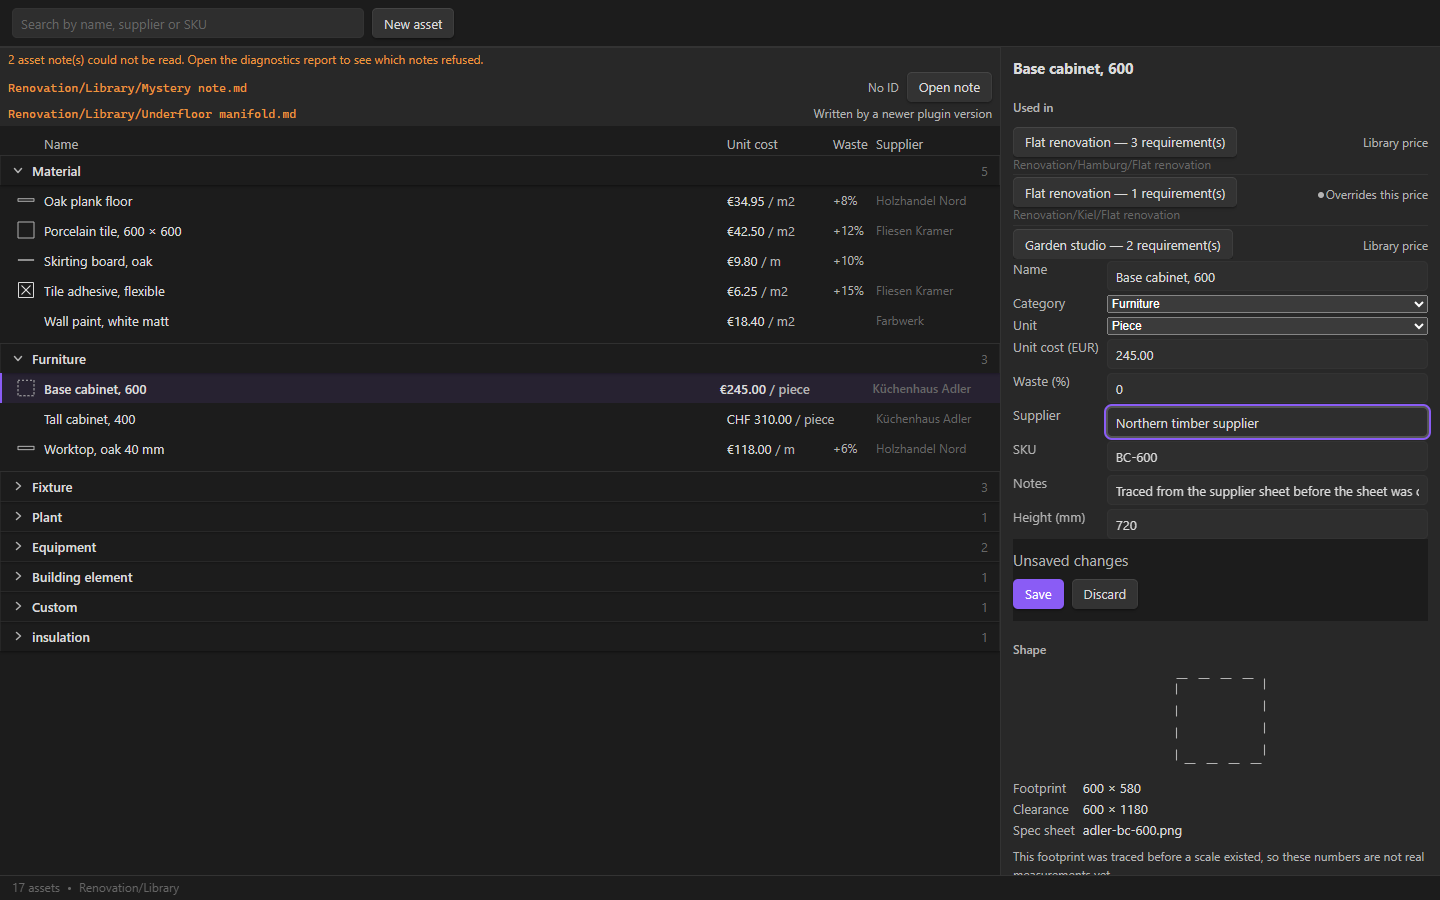
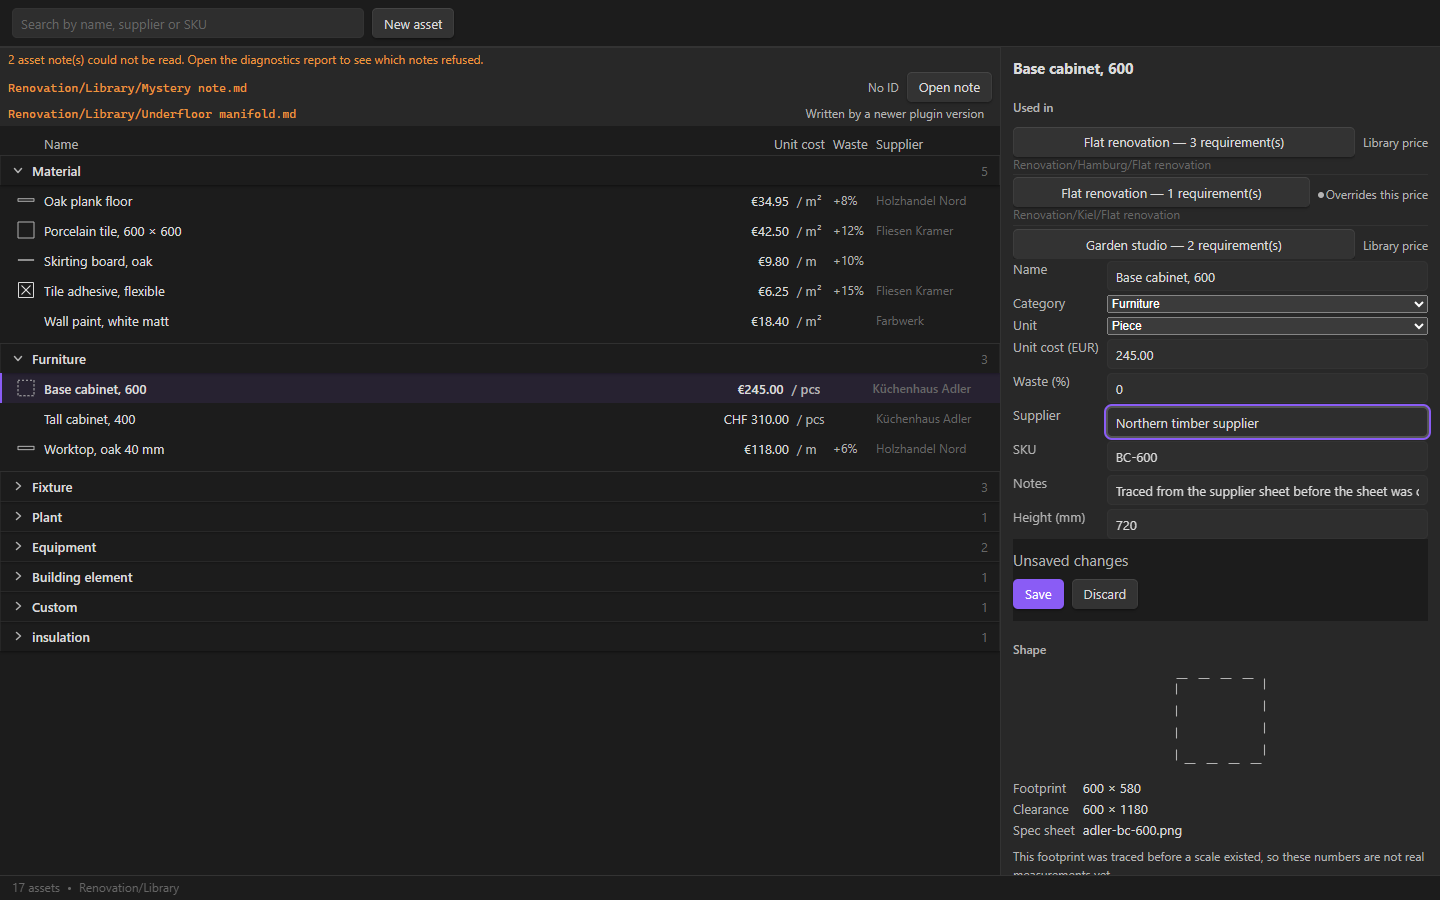
docs(library): regenerate the AL10 captures with layout measurements

diff --git a/docs/user-experience/asset-library-delivery/delivery-record.md b/docs/user-experience/asset-library-delivery/delivery-record.md
@@ -233,3 +233,34 @@ and confirmation of the original asset after clearing its draft name.
 
 Verification: build, lint, whole-project analysis and diff check pass; 18 library,
 store and localization test files / 264 tests pass.
+
+### Gap closure captures (2026-09-08)
+
+Regenerated with `scripts/asset-library-shots.mjs` at `4e6e941c85a57e14c0d1daec4caa77874deea27f`;
+browser `151.0.7922.34` (pinned Chromium — no substitute was needed).
+Price column: amount right-edge spread `5.22px` at 1440 (was 22.3px, browse case step 2).
+The residual 5.22px (9.73px at 720/560) is not the unit-in-cell defect the price-column task
+fixed: it comes from the selected row's own bolder `font-weight` changing what its `ch`-unit
+grid tracks resolve to in pixels, so only the selected row's amount lands a few px off the
+rest. Real, small, and out of this task's scope.
+Used-in rows at 460: heights `[52.09, 50.59, 35.5]` (was 51.8px against 19.6px, step 12) —
+no longer collapsing onto one another.
+Repair strip: reason and action in grid columns (step 15). Headings and waste cell share the
+`17rem` threshold.
+
+**Found while regenerating, not while looking for it**: the merged heading/waste block's own
+`.rp-al-columns { display: none }` rule never actually fired, at any container width, because
+the plain `.rp-al-columns { display: grid; … }` rule was declared AFTER both `@container`
+blocks in `styles/asset-shelf.css` — same specificity, later source order, so the base rule
+always won the cascade regardless of the container query's condition. jsdom cannot render a
+container query, so nothing before this task's real-browser capture could have caught it; the
+AL10-720 capture (container width 440px, under the 32.5rem/520px threshold the block shipped
+with) still showed the full heading row, which is what exposed it. Moved the base rule before
+both `@container` blocks (source order now matches the intended override) and re-measured the
+threshold from scratch, since 32.5rem never actually applied within the widths a selected asset
+renders at (440px at 720, 320px at 560 — both already under 32.5rem, so that value would have
+hidden the heading row at every capture width once the ordering bug was fixed, failing the
+"present at 720" requirement). 17rem (272px) is the real number: the heading's own "Unit cost"
+label is the row's one span that cannot shrink, and it first overflows its track under 260px
+(measured `scrollWidth` 263px against a forced 260px `clientWidth`) while staying clean at
+280px — 17rem sits in that margin, under both AL10-720's and AL10-560's measured containers.
